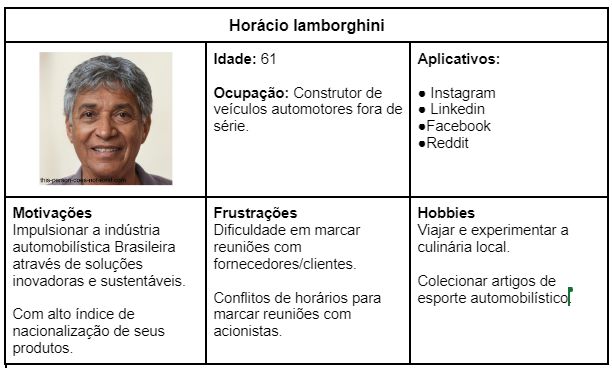
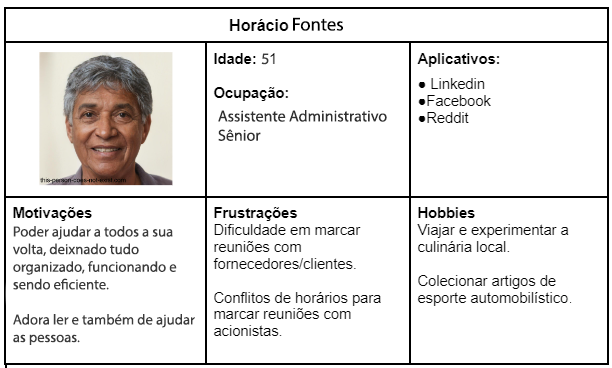
Ajuste imagem Horacio e nome

diff --git a/docs/02-Especificação do Projeto.md b/docs/02-Especificação do Projeto.md
@@ -8,13 +8,13 @@ DOs desafios cruciais para o projeto foram identificados através de um processo
 
 ## Personas
 
-- <img src="docs\ana silva.PNG"/>
-- <img src="docs\anna de.PNG"/>
-- <img src="docs\enzo.PNG"/>
-- <img src="docs\horacio.PNG"/>
-- <img src="docs\joao carvalho.PNG"/>
-- <img src="docs\lineu.PNG"/>
-- <img src="docs\Mauricio duarte.PNG"/>
+<img src="ana silva.PNG"/>
+<img src="anna de.PNG"/>
+<img src="enzo.PNG"/>
+<img src="horacio.PNG"/>
+<img src="joao carvalho.PNG"/>
+<img src="lineu.PNG"/>
+<img src="Mauricio duarte.PNG"/>
 
 ## Histórias de Usuários
 
@@ -27,7 +27,7 @@ Com base na análise das personas forma identificadas as seguintes histórias de
 |João Carvalho       | Sistema de notificações e alertas para lembrar os participantes sobre suas reuniões agendadas.  | alertar sobre possíveis conflitos de horário. |
 |Anna de Lucca       | Capacidade de agendar reuniões recorrentes, como reuniões semanais ou mensais. | Para agilidade no gerenciamento de reuniões com o time. |
 |Lineu Silva         | Relatórios sobre a utilização das salas de reunião ao longo do tempo.  | Permitindo uma melhor gestão dos recursos. |
-|Horacio Lamborghini | Gerenciamento de salas de reunião por níveis de perfil                 | onde diferentes níveis de perfil tenham diferentes permissões e acessos. |
+|Horacio Fontes | Gerenciamento de salas de reunião por níveis de perfil                 | onde diferentes níveis de perfil tenham diferentes permissões e acessos. |
 |Ana Silva           | Poder visualizar as reuniões marcadas em cada sala de reunião.         | Para não ter conflito de reuniões já marcadas. | 
 |Lineu Silva         | Facilitar o agendamento de reuniões.                                   | Melhorar as tarefas rotineiras e ter dados sob re performance.
 |Anna de Lucca       | Deixar planejado as reuniões de um mês inteiro.                        | Para poder se organizar com antecedência. |
